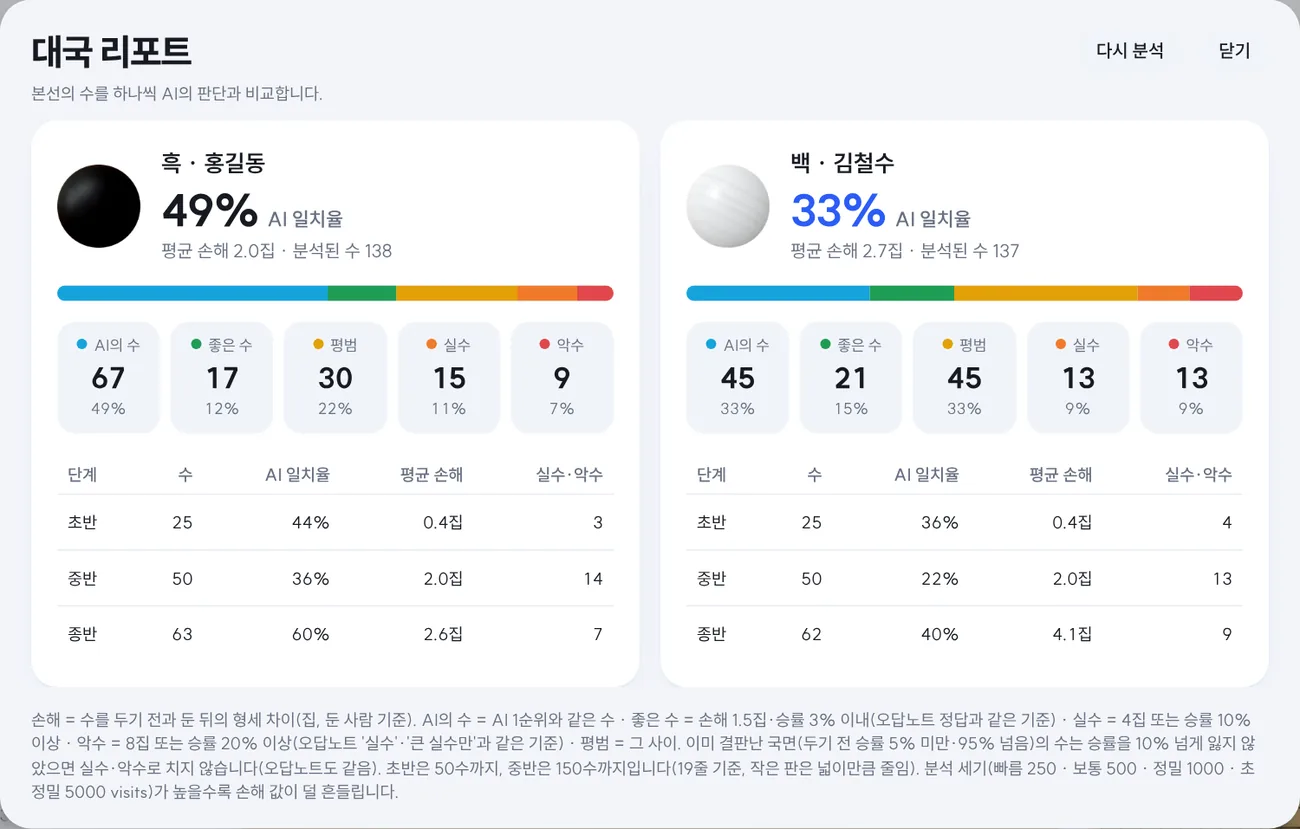
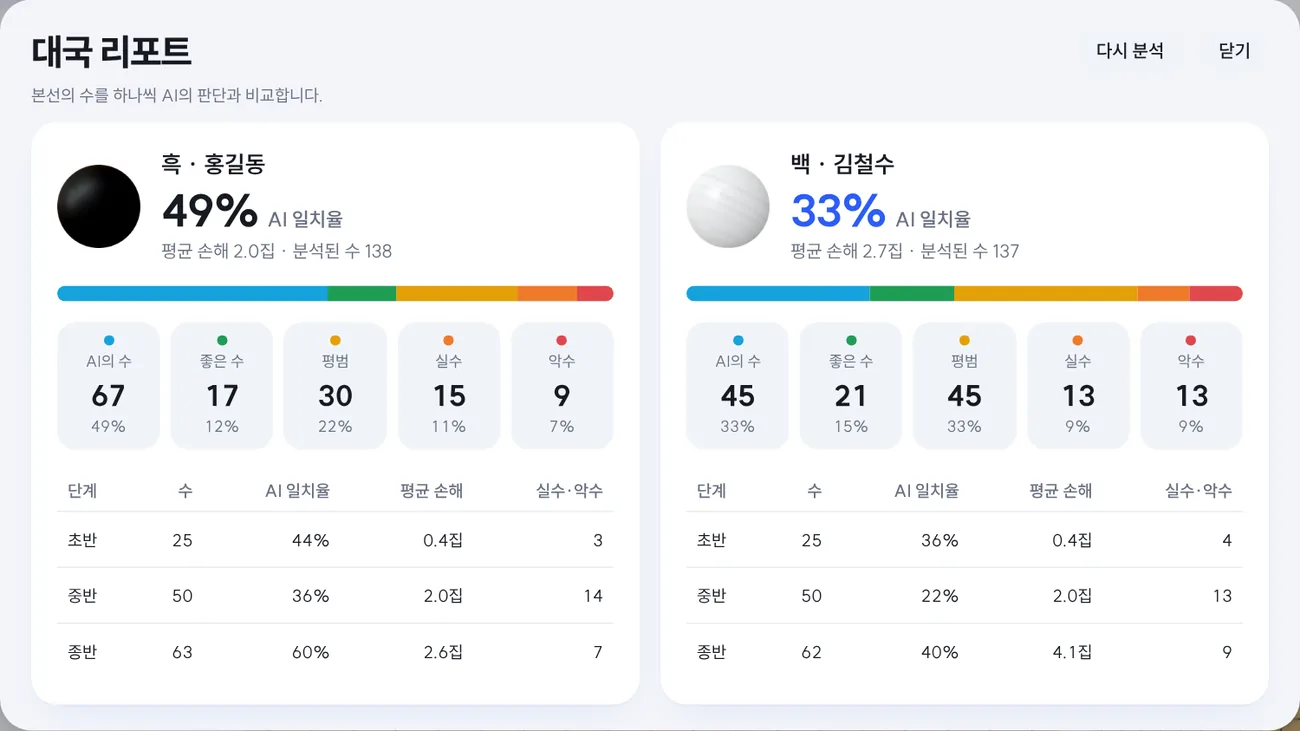
분석 화면 대국 리포트: 아래 설명문 뺌(가이드로), 등급 글자가 칸 안에, 등급을 누르면 변화도 자리에 리포트 막대 — 누를 때마다 그 등급의 다음 수로
Claude-Session: https://claude.ai/code/session_01TugHsiRNeNjoLdnKKnJwEd

diff --git a/analysis.html b/analysis.html
@@ -319,7 +319,7 @@ dialog.sheet[open] { display: flex; flex-direction: column; animation: slideIn .
 /* main area: left cards | board | right cards */
 .main { display: grid; grid-template-columns: 24% minmax(0, 1fr) 24%; min-height: 0; gap: 12px; padding: 12px; }
 .left, .right { display: flex; flex-direction: column; gap: 10px; min-height: 0; min-width: 0; }
-.cv-box, .comment, #treeBox, .table-box, .mini-box { background: var(--panel); border-radius: 18px; box-shadow: var(--shadow); }
+.cv-box, .comment, #treeBox, #reportBox, .table-box, .mini-box { background: var(--panel); border-radius: 18px; box-shadow: var(--shadow); }
 .cv-box { position: relative; min-height: 0; overflow: hidden; }
 .cv-box > canvas { position: absolute; inset: 0; display: block; }
 #capBox { flex: 0 0 11%; min-height: 80px; }
@@ -516,9 +516,12 @@ button.primary:hover { background: var(--blue-deep); }
 .rp-bar { display: flex; height: 12px; border-radius: 999px; overflow: hidden; background: var(--soft); }
 .rp-bar i { display: block; height: 100%; }
 .rp-grades { display: grid; grid-template-columns: repeat(5, minmax(0, 1fr)); gap: 8px; }
-.rp-grades div { background: var(--soft); border-radius: 14px; padding: 10px 8px; text-align: center; }
-.rp-grades span { display: block; font-size: 12px; color: var(--muted); white-space: nowrap; }
-.rp-grades span::before { content: ""; display: inline-block; width: 8px; height: 8px; border-radius: 50%; margin-right: 5px; background: var(--c); vertical-align: 1px; }
+/* a grade is a button (user 2026-10-24): it opens the report in the 변화도 place at that grade's first move; the dot sits
+   above the label so "AI의 수" stays inside its box on a phone (it ran into the next one) */
+.rp-grades button { min-width: 0; min-height: 0; background: var(--soft); border-radius: 14px; padding: 10px 4px; text-align: center; color: var(--ink); font: inherit; }
+.rp-grades button:disabled { opacity: 1; cursor: default; }
+.rp-grades span { display: block; font-size: 12px; color: var(--muted); white-space: nowrap; overflow: hidden; text-overflow: ellipsis; }
+.rp-grades span::before { content: ""; display: block; width: 8px; height: 8px; border-radius: 50%; margin: 0 auto 4px; background: var(--c); }
 .rp-grades b { display: block; font-size: 22px; font-weight: 800; font-variant-numeric: tabular-nums; margin-top: 2px; }
 .rp-grades em { display: block; font-style: normal; font-size: 12px; color: var(--muted); font-variant-numeric: tabular-nums; }
 .rp-phase { width: 100%; border-collapse: collapse; font-size: 13px; font-variant-numeric: tabular-nums; white-space: nowrap; }
@@ -526,7 +529,29 @@ button.primary:hover { background: var(--blue-deep); }
 .rp-phase td { text-align: right; padding: 8px; border-bottom: 1px solid var(--line); }
 .rp-phase th:first-child, .rp-phase td:first-child { text-align: left; }
 .rp-phase tr:last-child td { border-bottom: 0; }
-.sp-note { margin: 16px 24px 20px; color: var(--muted); font-size: 13px; }
+.sp-cards { padding-bottom: 20px; }
+/* 대국 리포트 under the board / in the 변화도 place (user 2026-10-24, like Tygem's): per grade a black and a white bar (share
+   of that side's moves, count); a grade's label goes to its next move of either side, a bar to that side's next one */
+#reportBox { display: none; flex: none; padding: 8px 10px 10px; border-radius: 18px; }
+.report-open #reportBox { display: block; }
+.report-open #treeBox { display: none; }
+.rb-head { display: flex; align-items: center; gap: 8px; min-height: 28px; font-size: 13px; color: var(--muted); font-variant-numeric: tabular-nums; }
+.rb-head span { flex: 1; min-width: 0; overflow: hidden; text-overflow: ellipsis; white-space: nowrap; }
+.rb-head b { color: var(--ink); }
+#rbClose { flex: none; min-height: 28px; width: 32px; padding: 0; font-size: 18px; line-height: 1; }
+.rb-chart { display: grid; grid-template-columns: repeat(5, minmax(0, 1fr)); gap: 6px; margin-top: 4px; }
+.rb-col { display: grid; grid-template-rows: auto 30px; gap: 6px; min-width: 0; }
+.rb-bars { display: grid; grid-template-columns: 1fr 1fr; gap: 3px; align-items: end; height: 96px; border-bottom: 1px solid var(--line); }
+.rb-bars button { display: flex; flex-direction: column; justify-content: flex-end; align-items: center; height: 100%; min-height: 0; min-width: 0;
+  padding: 0; border-radius: 0; background: none; box-shadow: none; color: var(--muted); font-size: 10.5px; line-height: 1.15; font-variant-numeric: tabular-nums; }
+.rb-bars button:hover { background: var(--soft); }
+.rb-bars i { display: block; width: 100%; min-height: 2px; margin-top: 2px; border-radius: 3px 3px 0 0; }
+.rb-bars .b i { background: #15171c; }
+.rb-bars .w i { background: #d9dde5; }
+.rb-bars button.sel { color: var(--ink); font-weight: 700; }
+.rb-bars button.sel i { box-shadow: 0 0 0 2px var(--c); }
+.rb-col > button { min-height: 30px; padding: 0 2px; border-radius: 6px; background: var(--c); color: #fff; font-size: 12.5px; font-weight: 700; white-space: nowrap; overflow: hidden; text-overflow: ellipsis; }
+.rb-col > button:hover { background: var(--c); filter: brightness(1.08); }
 @media (max-width: 760px) {
   .sp-cards { grid-template-columns: 1fr; }
   .rp-grades { gap: 4px; }
@@ -582,7 +607,8 @@ button.primary:hover { background: var(--blue-deep); }
   .bar-off:not(.graph-open) .left { display: none; }
   /* 변화도 under the board, switched in the menu like the graph (user request 2026-10-09); scrolls inside its box */
   .tree-open .right { display: flex; order: 3; padding: 8px 8px 0; }
-  .tree-open .right > :not(#treeBox) { display: none; }
+  .tree-open .right > :not(#treeBox):not(#reportBox), .report-open .right > :not(#treeBox):not(#reportBox) { display: none; }
+  .report-open .right { display: flex; order: 3; padding: 8px 8px 0; }
   /* contain: a wide tree (many 갈래) scrolls sideways inside its box; without it the canvas widened the whole page and
      the board and buttons were pushed off a phone (user report 2026-10-09) */
   .tree-open #treeBox { flex: none; height: 120px; contain: inline-size; }
@@ -637,6 +663,7 @@ button.primary:hover { background: var(--blue-deep); }
   .menubar, .toolbar { background: rgba(21, 28, 46, .82); border-color: rgba(255, 255, 255, .06); }
   #saveMine:not([hidden]) { background: #1b2748; color: var(--blue-deep); }
   #saveMine:hover { background: #22305a; }
+  .rb-bars .b i { background: #000; box-shadow: inset 0 0 0 1px #3a4560; }
   div.lvl button:hover, .stone-seg button:hover, .seg button:hover { background: rgba(255, 255, 255, .08); }
   .lvl:has(button.on[data-l="ultra"])::after, .level-pop button em { color: #ff9a5c; }
   body.dropping::after { background: rgba(22, 34, 74, .88); color: var(--blue-deep); }
@@ -906,7 +933,6 @@ button.primary:hover { background: var(--blue-deep); }
   <div class="sp-sub">본선의 수를 하나씩 AI의 판단과 비교합니다.</div>
   <div class="sp-msg" id="strengthMsg"></div>
   <div class="sp-cards" id="strengthCards"></div>
-  <div class="sp-note">손해 = 수를 두기 전과 둔 뒤의 형세 차이(집, 둔 사람 기준). AI의 수 = AI 1순위와 같은 수 · 좋은 수 = 손해 1.5집·승률 3% 이내(오답노트 정답과 같은 기준) · 실수 = 4집 또는 승률 10% 이상 · 악수 = 8집 또는 승률 20% 이상(오답노트 '실수'·'큰 실수만'과 같은 기준) · 평범 = 그 사이. 이미 결판난 국면(두기 전 승률 5% 미만·95% 넘음)의 수는 승률을 10% 넘게 잃지 않았으면 실수·악수로 치지 않습니다(오답노트도 같음). 초반은 50수까지, 중반은 150수까지입니다(19줄 기준, 작은 판은 넓이만큼 줄임). 분석 세기(빠름 250 · 보통 500 · 정밀 1000 · 초정밀 5000 visits)가 높을수록 손해 값이 덜 흔들립니다.</div>
 </dialog>
 
 <div class="main">
@@ -925,6 +951,7 @@ button.primary:hover { background: var(--blue-deep); }
 
   <aside class="right">
     <div id="treeBox"><canvas id="tree" aria-label="변화도"></canvas></div>
+    <div id="reportBox" aria-label="대국 리포트"><div class="rb-head"><span id="rbNow"></span><button type="button" id="rbClose" aria-label="리포트 닫기">×</button></div><div class="rb-chart" id="rbChart"></div></div>
     <div class="table-box">
       <table>
         <thead><tr><th>순서</th><th>승률</th><th>비짓</th><th>비중</th><th>리드</th></tr></thead>
@@ -4377,7 +4404,7 @@ function renderStrength() {
   const card = (xs, side, name, cls, img) => {
     const n = xs.length, count = g => xs.filter(x => x.grade === g).length;
     const bar = GRADES.map(([g, , c]) => `<i style="width:${count(g) / n * 100}%;background:${c}" title="${escHtml(GRADES.find(x => x[0] === g)[1])} ${count(g)}"></i>`).join("");
-    const grades = GRADES.map(([g, label, c]) => `<div style="--c:${c}"><span>${label}</span><b>${count(g)}</b><em>${pct(count(g), n)}%</em></div>`).join("");
+    const grades = GRADES.map(([g, label, c]) => `<button type="button" style="--c:${c}" data-g="${g}" data-side="${cls === "black" ? "B" : "W"}"${count(g) ? "" : " disabled"}><span>${label}</span><b>${count(g)}</b><em>${pct(count(g), n)}%</em></button>`).join("");
     const phases = PHASES.map(([, label, upTo], i) => {
       const ps = xs.filter(x => x.no <= phaseCut(upTo, N) && (!i || x.no > phaseCut(PHASES[i - 1][2], N)));
       const bad = ps.filter(x => x.grade === "mistake" || x.grade === "blunder").length;
@@ -4393,7 +4420,55 @@ function renderStrength() {
   };
   $("strengthCards").innerHTML = (bySide.B.length ? card(bySide.B, "흑", root.info.PB, "black", "black0.png") : "") +
                                  (bySide.W.length ? card(bySide.W, "백", root.info.PW, "white", "white0.png") : "");
+  if (report) renderReport();
 }
+// The report in the 변화도 place (user 2026-10-24 "탐색트리 자리에 … 대국리포트 들어가게 해서 클릭하면 그거에 해당하는수로 차례대로"):
+// opened from a grade in the window; a grade's label goes to its next move of either side, a side's bar to that side's
+// next one (after the move shown, then from the start again). Closed with ×, or when another record is opened.
+let report = null;   // {root, sel: {g, side}} while it shows
+function reportMoves() {   // the graded moves of the main line, in order: [{n, no, side, grade}]
+  const out = [];
+  for (const n of lineThrough(root)) { const g = n.move && !n.move.pass && moveGrade(n); if (g) out.push({n, no: n.depth, side: n.move.c, grade: g.grade}); }
+  return out;
+}
+function renderReport() {
+  const ms = reportMoves(), sel = report.sel || {};
+  const side = c => ms.filter(m => m.side === c), all = {B: side("B"), W: side("W")};
+  const share = (c, g) => all[c].length ? all[c].filter(m => m.grade === g).length / all[c].length : 0;
+  const top = Math.max(.01, ...GRADES.flatMap(([g]) => [share("B", g), share("W", g)]));
+  const bar = (c, g) => { const k = all[c].filter(m => m.grade === g).length, on = sel.g === g && sel.side === c;
+    return `<button type="button" class="${c === "B" ? "b" : "w"}${on ? " sel" : ""}" data-g="${g}" data-side="${c}" aria-label="${c === "B" ? "흑" : "백"} ${k}수"${k ? "" : " disabled"}>` +
+      `${Math.round(share(c, g) * 100)}%<br>(${k})<i style="height:${Math.round(share(c, g) / top * 56)}px"></i></button>`; };
+  $("rbChart").innerHTML = GRADES.map(([g, label, c]) =>
+    `<div class="rb-col" style="--c:${c}"><div class="rb-bars">${bar("B", g)}${bar("W", g)}</div><button type="button" data-g="${g}">${label}</button></div>`).join("");
+  const ai = c => all[c].length ? Math.round(all[c].filter(m => m.grade === "ai").length / all[c].length * 100) + "%" : "—";
+  if (!sel.g) $("rbNow").innerHTML = `AI 일치율 흑 <b>${ai("B")}</b> · 백 <b>${ai("W")}</b>`;
+}
+function openReport() {
+  report = {root, sel: null};
+  document.body.classList.add("report-open"); renderReport(); layout();
+}
+function closeReport() {
+  if (!report) return;
+  report = null; document.body.classList.remove("report-open"); layout();
+}
+function reportGo(g, side, fromStart = false) {   // the next move of grade g (side "B"/"W", or either when none)
+  const ms = reportMoves().filter(m => m.grade === g && (!side || m.side === side));
+  report.sel = {g, side};
+  renderReport();
+  const label = GRADES.find(x => x[0] === g)[1], who = side === "B" ? "흑 " : side === "W" ? "백 " : "";
+  if (!ms.length) { $("rbNow").textContent = `${who}${label} 없음`; return; }
+  const at = lineThrough(root).includes(cur) ? cur.depth : 0;
+  const k = fromStart ? 0 : Math.max(0, ms.findIndex(m => m.no > at)), m = ms[k];
+  $("rbNow").innerHTML = `${who}${escHtml(label)} <b>${k + 1}/${ms.length}</b> · ${m.no}수`;
+  goTo(m.n);
+}
+$("strengthCards").addEventListener("click", ev => {
+  const b = ev.target.closest("button[data-g]"); if (!b) return;
+  $("strengthDlg").close(); openReport(); reportGo(b.dataset.g, b.dataset.side, true);
+});
+$("rbChart").onclick = ev => { const b = ev.target.closest("button[data-g]"); if (b) reportGo(b.dataset.g, b.dataset.side || null); };
+$("rbClose").onclick = closeReport;
 $("strengthOpen").onclick = () => {
   const line = lineThrough(root);   // every move already analysed (any strength): the report right away, '다시 분석' redoes it
   if (!strengthId && line.length > 1 && line.every(n => n.analysis && n.analysis.rootInfo)) {
@@ -5014,6 +5089,7 @@ function blunderColor(node) {
 }
 let treeHits = [];
 function drawTree() {
+  if (report && report.root !== root) closeReport();
   const box = $("treeBox"); if (getComputedStyle(box).display === "none") return;
   // Layout (user request 2026-10-09): the main line goes down one column; a 갈래 starts on the row right under the move
   // it leaves and runs to the right, and a 갈래 inside it the same way, one row further down. No line passes behind

diff --git a/guide.html b/guide.html
@@ -479,7 +479,7 @@ details.more .table-wrap { margin: 4px 0 8px; }
     <section id="report">
       <h2>대국 리포트</h2>
       <p class="sum">한 판을 수마다 AI와 비교해, 흑·백이 얼마나 AI처럼 뒀는지와 어디서 손해 봤는지 보여 줍니다.</p>
-      <figure class="fig"><img src="guide/report.webp" width="1300" height="829" alt="대국 리포트: 흑·백 AI 일치율, 평균 손해, 다섯 등급 개수, 초반·중반·종반 표" loading="lazy"><figcaption>실제 대국을 보통 세기로 분석한 리포트(대국자 이름은 가림)</figcaption></figure>
+      <figure class="fig"><img src="guide/report.webp" width="1300" height="731" alt="대국 리포트: 흑·백 AI 일치율, 평균 손해, 다섯 등급 개수, 초반·중반·종반 표" loading="lazy"><figcaption>실제 대국을 보통 세기로 분석한 리포트(대국자 이름은 가림)</figcaption></figure>
       <div class="table-wrap"><table>
         <thead><tr><th>등급</th><th>기준(한 수에 잃은 것)</th></tr></thead>
         <tbody>
@@ -492,7 +492,9 @@ details.more .table-wrap { margin: 4px 0 8px; }
       </table></div>
       <ul>
         <li>이미 결판난 국면(두기 전 승률 5% 미만·95% 넘음)의 수는 승률을 10% 넘게 잃지 않았으면 실수로 치지 않습니다.</li>
+        <li><b>손해</b>는 수를 두기 전과 둔 뒤의 형세 차이(둔 사람 기준)입니다. 초반은 50수까지, 중반은 150수까지(19줄 기준, 작은 판은 넓이만큼 줄임)입니다.</li>
         <li>아래 표에서 <b>초반·중반·종반</b> 중 어디가 약한지 보고, 그 단계의 오답노트를 풀어 보세요.</li>
+        <li>등급(AI의 수·좋은 수·평범·실수·악수)을 누르면 창이 닫히고 <b>변화도 자리에 리포트 막대</b>가 나오며, 그 등급의 첫 수로 갑니다. 막대 아래 등급 이름을 누를 때마다 흑·백 모두에서 그 등급의 다음 수로, 흑·백 막대를 누르면 그쪽의 다음 수로 차례대로 넘어갑니다. <span class="chip">×</span>를 누르면 변화도로 돌아갑니다.</li>
       </ul>
       <details class="more"><summary>자세히: 걸리는 시간, 취소, 다시 분석</summary><div>
         <ul>
